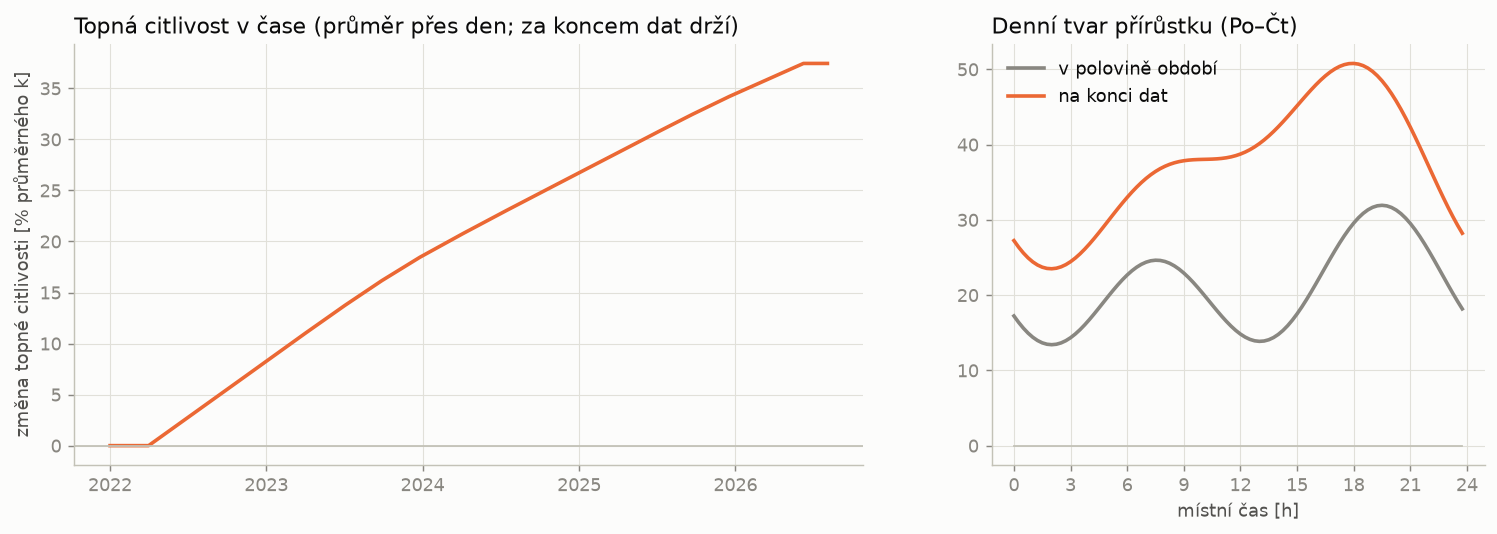
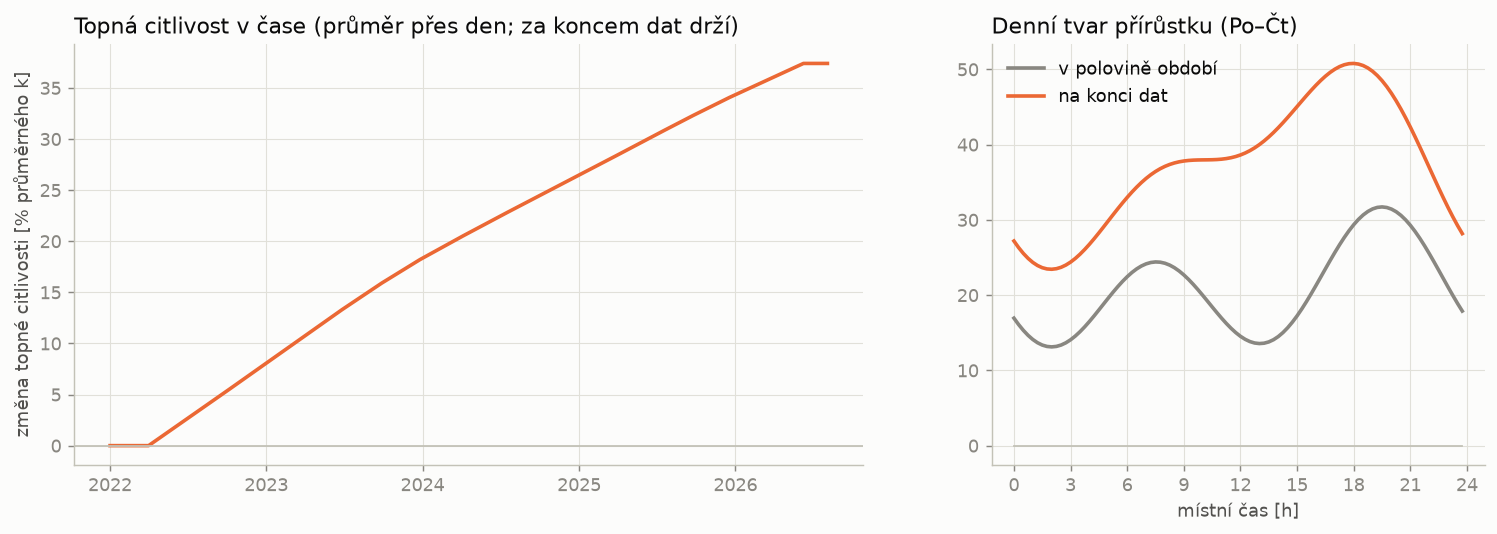
Prubeh prazdninoveho efektu pres leto (krok 29)
- config prazdniny.prubeh + kalendar.summer_course/summer_position, etl
  sloupec leto_den
- base: hladky clen podle dne v lete (B-spliny 10. 6. - 20. 9., uzly po 10
  dnech); pracovni dny s dennim tvarem (konstanta + 2 harmonicke), volne dny
  uroven — dovolene vrcholi 21. 7. - 9. 8. (-7, rano az -25), 20.-29. 8. +6
- backtest: 13,41 -> 13,13 / MAPE 1,53 %, s korekci 11,94 -> 11,62 / 1,337 %;
  s predpovedi pocasi s korekci 16,93 -> 16,72 / 1,831 %
- prepocet parametru a grafu, dokumentace v NAVRH_MODELU.md

diff --git a/src/base.py b/src/base.py
@@ -12,6 +12,13 @@ nepusobi topeni ani chlazeni):
   typ dne; profil Po-Ct je bez konstanty (uroven nese spline), ostatni typy
   maji konstantni offset vuci Po-Ct
 - prazdniny: konstanta + kratka Fourierova korekce (letni skolni volno)
+- prubeh leta: prazdninovy efekt neni po cele leto stejny — pracovni dny jsou
+  21. 7. - 9. 8. o ~7 niz (v 7-8 h az -25; dovolene vrcholi), 20.-29. 8. o
+  ~6 vys (navrat pred koncem prazdnin), kazdy rok stejne. Hladky clen podle
+  dne v lete (kubicke B-spliny v okne z config/kalendar.yaml, na okrajich
+  nulove): pro pracovni dny s vlastnim dennim tvarem (konstanta +
+  harmonicke), pro volne dny jen uroven. Uroven (uzly po 90 dnech) tak
+  rychly prubeh neunese.
 - rano po volnu: pracovni den po vikendu/svatku ma do ~NIGHT_END h vlastni
   rezim (noc z nedele na pondeli je jeste vikendova, prechod na pracovni
   rezim probiha az behem rana). Aditivni clen z kubickych B-splin na
@@ -65,6 +72,8 @@ LIGHT_KNOT = 1.0           # [h] rozestup uzlu aktivity osvetleni
 LIGHT_RIDGE = 1.0          # ridge osvetleni ve fitu z mirnych dnu (relativne)
 GLOOM_WINDOW = (5.0, 21.0) # [h] okno clenu sera pres den (mistni cas)
 GLOOM_KNOT = 2.0           # [h] rozestup uzlu aktivity pri seru
+
+SUMMER = kalendar.summer_course()   # okno prubehu leta (None = clen vypnut)
 
 MODEL_DIR = Path(__file__).resolve().parent.parent / "models"
 
@@ -125,6 +134,15 @@ def _gloom_basis(tod: np.ndarray) -> np.ndarray:
 N_GLOOM = len(_window_knots(*GLOOM_WINDOW, GLOOM_KNOT)) - 2
 
 
+def _summer_basis(pos: np.ndarray) -> np.ndarray:
+    """B-spliny podle dne v lete (pos = poradi dne v okne + cast dne), mimo okno nuly."""
+    return _window_basis(pos, 0.0, float(SUMMER["dni"]), SUMMER["uzel_dni"])
+
+
+N_SUMMER = len(_window_knots(0.0, float(SUMMER["dni"]), SUMMER["uzel_dni"])) - 2 if SUMMER else 0
+K_SUMMER = SUMMER["harmonicke"] if SUMMER else 0
+
+
 def _n_spline(span_days: float) -> int:
     return len(np.arange(0.0, span_days + KNOT_DAYS, KNOT_DAYS)) + 2
 
@@ -143,6 +161,8 @@ def _slices(span_days: float) -> dict:
     out["most2"] = slice(i, i + 1 + 2 * K_MOST); i += 1 + 2 * K_MOST
     out["svetlo"] = slice(i, i + N_LIGHT); i += N_LIGHT
     out["sero"] = slice(i, i + N_GLOOM); i += N_GLOOM
+    out["leto_prac"] = slice(i, i + N_SUMMER * (1 + 2 * K_SUMMER)); i += N_SUMMER * (1 + 2 * K_SUMMER)
+    out["leto_vol"] = slice(i, i + N_SUMMER); i += N_SUMMER
     for name, k in kalendar.period_groups():
         out["obd_" + name] = slice(i, i + 1 + 2 * k); i += 1 + 2 * k
     out["total"] = i
@@ -185,6 +205,13 @@ def design(df: pd.DataFrame, t0, span_days: float) -> np.ndarray:
         blocks.append(np.hstack([mo, fsub(K_MOST) * mo]))
     blocks.append(_light_basis(tod) * df["tma"].to_numpy()[:, None])
     blocks.append(_gloom_basis(tod) * df["sero"].to_numpy()[:, None])
+    if SUMMER:
+        ld = df["leto_den"].to_numpy()
+        Sb = _summer_basis(np.where(ld >= 0, ld + tod / 24.0, -1.0))
+        Phi = np.hstack([np.ones((len(df), 1)), fsub(K_SUMMER)]) if K_SUMMER else np.ones((len(df), 1))
+        work = (dt <= 1)[:, None]
+        blocks.append((Sb[:, :, None] * Phi[:, None, :]).reshape(len(df), -1) * work)
+        blocks.append(Sb * ~work)
     for name, k in groups:
         g = df["obd_" + name].to_numpy(float)[:, None]
         blocks.append(np.hstack([g, fsub(k) * g]) if k else g)
@@ -241,6 +268,10 @@ def fit(df: pd.DataFrame, smooth: float = SMOOTH) -> dict:
     # sero se z mirnych dnu (malo tmavych dni) odhaduje spatne — stejne ukotveni
     sl_g = sl["sero"]
     P[sl_g, sl_g] += LIGHT_RIDGE * np.trace(XtX) / p * np.eye(sl_g.stop - sl_g.start)
+    # prubeh leta: mirnych dni je v lete malo — take ukotvit, odhadne joint fit
+    for key in ("leto_prac", "leto_vol"):
+        sl_s = sl[key]
+        P[sl_s, sl_s] += LIGHT_RIDGE * np.trace(XtX) / p * np.eye(sl_s.stop - sl_s.start)
     coef = np.linalg.solve(XtX + P, X.T @ y)
     resid = y - X @ coef
     return {
@@ -306,6 +337,19 @@ def gloom_curve(params: dict, tod: np.ndarray | None = None) -> np.ndarray:
     if tod is None:
         tod = np.arange(0, 24, 0.25)
     return _gloom_basis(tod) @ params["coef"][_slices(params["span_days"])["sero"]]
+
+
+def summer_curve(params: dict, pos: np.ndarray, tod: float | None = None) -> tuple[np.ndarray, np.ndarray]:
+    """Prubeh leta podle dne v okne: (pracovni dny, volne dny). tod=None =
+    denni prumer (jen konstantni slozka), jinak hodnota v danem case dne."""
+    sl = _slices(params["span_days"])
+    Sb = _summer_basis(np.asarray(pos, float))
+    c = params["coef"][sl["leto_prac"]].reshape(N_SUMMER, 1 + 2 * K_SUMMER)
+    phi = np.zeros(1 + 2 * K_SUMMER)
+    phi[0] = 1.0
+    if tod is not None and K_SUMMER:
+        phi[1:] = _fourier(np.array([tod]), K_SUMMER)[0]
+    return Sb @ (c @ phi), Sb @ params["coef"][sl["leto_vol"]]
 
 
 def save(params: dict, path: Path | None = None) -> Path:

diff --git a/src/kalendar.py b/src/kalendar.py
@@ -129,6 +129,29 @@ def period_flags(dates: pd.Series, hol: set) -> dict[str, np.ndarray]:
     return out
 
 
+def summer_course() -> dict | None:
+    """Okno prubehu leta: delka [dny], rozestup uzlu, pocet harmonickych."""
+    p = config()["prazdniny"].get("prubeh")
+    if not p:
+        return None
+    start, end = date(2001, *_md(p["od"])), date(2001, *_md(p["do"]))
+    return {"od": p["od"], "dni": (end - start).days + 1,
+            "uzel_dni": float(p.get("uzel_dni", 10)), "harmonicke": int(p.get("harmonicke", 0))}
+
+
+def summer_position(dates: pd.Series) -> np.ndarray:
+    """Poradi dne v okne prubehu leta (0 = prvni den), mimo okno -1."""
+    c = summer_course()
+    if c is None:
+        return np.full(len(dates), -1.0)
+    m0, d0 = _md(c["od"])
+    pos = {}
+    for d in pd.unique(dates):
+        k = (date(2001, d.month, min(d.day, 28) if d.month == 2 else d.day) - date(2001, m0, d0)).days
+        pos[d] = float(k) if 0 <= k < c["dni"] else -1.0
+    return dates.map(pos).to_numpy(float)
+
+
 def summer_holidays(dates: pd.Series) -> np.ndarray:
     p = config()["prazdniny"]["letni"]
     sel = {d for d in pd.unique(dates) if _in_range(d, p["od"], p["do"])}

diff --git a/src/etl.py b/src/etl.py
@@ -107,6 +107,8 @@ def _load(with_local_time: bool) -> pd.DataFrame:
         df["most_delka"] = dates.map(runs).fillna(0).astype(int).to_numpy()
         # letni prazdniny (dominantni skolni volno)
         df["prazdniny"] = kalendar.summer_holidays(dates)
+        # poradi dne v okne prubehu leta (config prazdniny.prubeh), mimo okno -1
+        df["leto_den"] = kalendar.summer_position(dates)
         # zvlastni obdobi (Vanoce ...): priznak pro kazdou skupinu z configu
         for name, flag in kalendar.period_flags(dates, holidays).items():
             df["obd_" + name] = flag

diff --git a/NAVRH_MODELU.md b/NAVRH_MODELU.md
@@ -495,3 +495,20 @@ Hodinový fit celého řetězce 12,22 → 11,77. Leden 12,8 → 11,6 (s korekcí
 **Korekční vrstva — tvar chyby podle třídy dne** (zkoušeno, nezavedeno): tvar chyby x3 počítaný zvlášť z posledních pracovních a zvlášť z posledních volných dnů dával na v9 12,42 → 12,20; po opravě v modelu už nic (11,94 beze změny vs 12,03, realisticky 16,93 vs 17,00). Chyba byla strukturální, ne drift — korekce zůstává beze změny. Nepomohl ani pomalý bias (průměr chyby posledních 7 dní) a chyba stejného dne minulého týdne.
 
 Plný fit na 15min datech: RMSE 12,71 → **12,26**.
+
+### 2026-10-02 — průběh prázdninového efektu přes léto (krok 29)
+
+**Diagnostika** (rezidua plného fitu, pracovní dny po desetidenních úsecích a letech): prázdninový člen byl jeden blok 1. 7. – 31. 8. (konstanta + 4 harmonické), efekt ale přes léto není stejný a **opakuje se každý rok**: 21.–30. 6. +5,2; 1.–10. 7. −3,7; **21. 7. – 9. 8. −7** (v 7–8 h −23 až −25 — dovolené vrcholí, hlavně ranní náběh); **20.–29. 8. +6,1** (návrat před koncem prázdnin, celý den); 30. 8. – 18. 9. −3 až −4. Znaménka se shodují ve 4–5 letech z 5 (21. 7.: −6,9 / −5,4 / −4,9 / −7,6 / −11,0). Volné dny opačně: červenec až polovina srpna +3 až +8, červen a září záporné. Úroveň báze (uzly po 90 dnech) tak rychlý průběh neunese.
+
+**Člen „průběh léta“ v bázi** (`config/kalendar.yaml` → `prazdniny.prubeh`, `src/kalendar.py`, `src/base.py`, ETL sloupec `leto_den`): hladká funkce dne v létě — kubické B-spliny v okně 10. 6. – 20. 9. s uzly po 10 dnech (9 funkcí, na okrajích okna nulové); pro pracovní dny s vlastním denním tvarem (konstanta + 2 harmonické, 45 parametrů), pro volné dny jen úroveň (9 parametrů). Stejný průběh pro všechny roky; prázdninový blok 1. 7. – 31. 8. zůstává (skok na začátku prázdnin je skutečný).
+
+| backtest | RMSE | MAPE | + korekce | + korekce MAPE |
+|---|---|---|---|---|
+| v10 tvar pro volné dny | 13,41 | 1,58 % | 11,94 | 1,381 % |
+| **v11 průběh léta** | **13,13** | **1,53 %** | **11,62** | **1,337 %** |
+| realisticky v10 | 17,95 | 2,00 % | 16,93 | 1,868 % |
+| **realisticky v11** | **17,71** | **1,96 %** | **16,72** | **1,831 %** |
+
+Léto 2026 se v backtestu předpovídá z průběhu naučeného na létech 2022–2025: s korekcí červen 11,1 → 10,0, červenec 12,8 → 11,3, srpen 12,3 → 10,8; ostatní měsíce beze změny (září 11,6 → 12,1). Hodinový fit celého řetězce 11,77 → 11,35.
+
+Plný fit na 15min datech: RMSE 12,26 → **11,87**.
